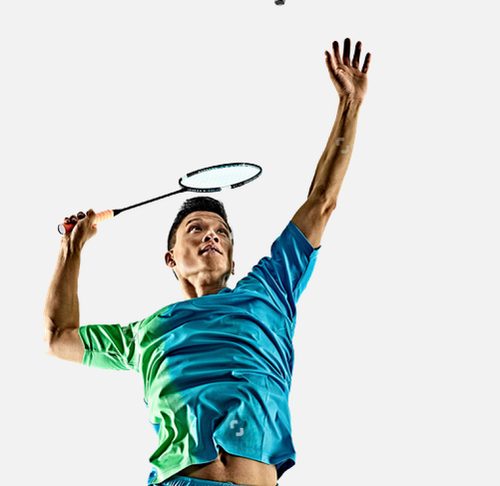
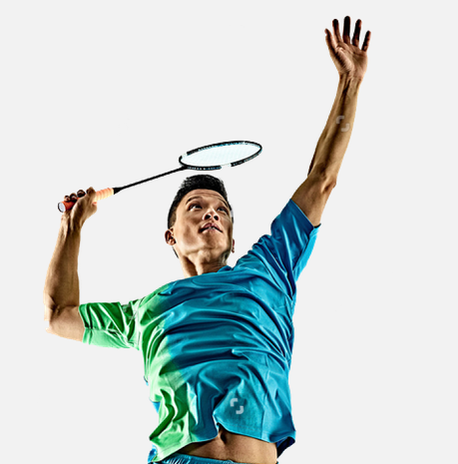
images fixed (#51)
* Add files via upload

* Update event.js

* Update registeration.js

* Update event.js

* Update index.html

* Update event-category.js

* Update event.js

* Update registeration.js

* Add files via upload

* Add files via upload

* Update event-category.js

* Update event.js

Changed region(s): [[0.0611, 0.0302, 0.8253, 1.0], [0.5502, 0.0, 0.5808, 0.0302]]

diff --git a/scripts/event-category.js b/scripts/event-category.js
@@ -132,31 +132,31 @@ let sportsarray=[
     title: "Badminton girls",
     brief_description: "Minimum 2 players in a team and maximum 3 players",
     link: "./event.html?eventname=bdmntngirls",
-    image: "./assets/Events/bdmntngirls.jpg"
+    image: "./assets/Events/bdmntngirls.png"
   },
   {
     title: "Volleyball boys and girls",
     brief_description: "Minimum 6 players in a team and maximum 12 players",
     link: "./event.html?eventname=vllyball",
-    image: "./assets/Events/vllyball.jpg"
+    image: "./assets/Events/vllyball.png"
   },
   {
     title: "Football",
     brief_description: "Maximum 10 players in a team",
     link: "./event.html?eventname=football",
-    image: "./assets/Events/football.jpg"
+    image: "./assets/Events/football.png"
   },
   {
     title: "Table tennis",
     brief_description: "Minimum 3 players in a team and maximum 4 players",
     link: "./event.html?eventname=tt",
-    image: "./assets/Events/tt.jpg"
+    image: "./assets/Events/tt.png"
   },
   {
     title: "Cricket",
     brief_description: "Minimum 9 players in a team and maximum 15 players",
     link: "./event.html?eventname=crckt",
-    image: "./assets/Events/crckt.jpg"
+    image: "./assets/Events/crckt.png"
   },
 ];
 

diff --git a/scripts/event.js b/scripts/event.js
@@ -279,7 +279,7 @@ eventdata=[
       link:'./register.html?q=bdmntnboys'
     },
     {
-      image:"./assets/Events/bdmntngirls.jpg",
+      image:"./assets/Events/bdmntngirls.png",
       venue:"JIIT 128",
       title:"Badminton girls",
       time:"TBA",
@@ -297,7 +297,7 @@ eventdata=[
       link:'./register.html?q=bdmntngirls'
     },
     {
-      image:"./assets/Events/vllyball.jpg",
+      image:"./assets/Events/vllyball.png",
       venue:"JIIT 128",
       title:"Volleyball boys and girls",
       time:"TBA",
@@ -318,7 +318,7 @@ eventdata=[
       link:'./register.html?q=vllyball'
     },
     {
-      image:"./assets/Events/football.jpg",
+      image:"./assets/Events/football.png",
       venue:"JIIT 128",
       title:"Football",
       time:"TBA",
@@ -336,7 +336,7 @@ eventdata=[
       link:'./register.html?q=football'
     },
     {
-      image:"./assets/Events/tt.jpg",
+      image:"./assets/Events/tt.png",
       venue:"JIIT 128",
       title:"Table tennis",
       time:"TBA",
@@ -353,7 +353,7 @@ eventdata=[
       link:'./register.html?q=tt'
     },
     {
-      image:"./assets/Events/crckt.jpg",
+      image:"./assets/Events/crckt.png",
       venue:"JIIT 128",
       title:"Cricket",
       time:"TBA",
